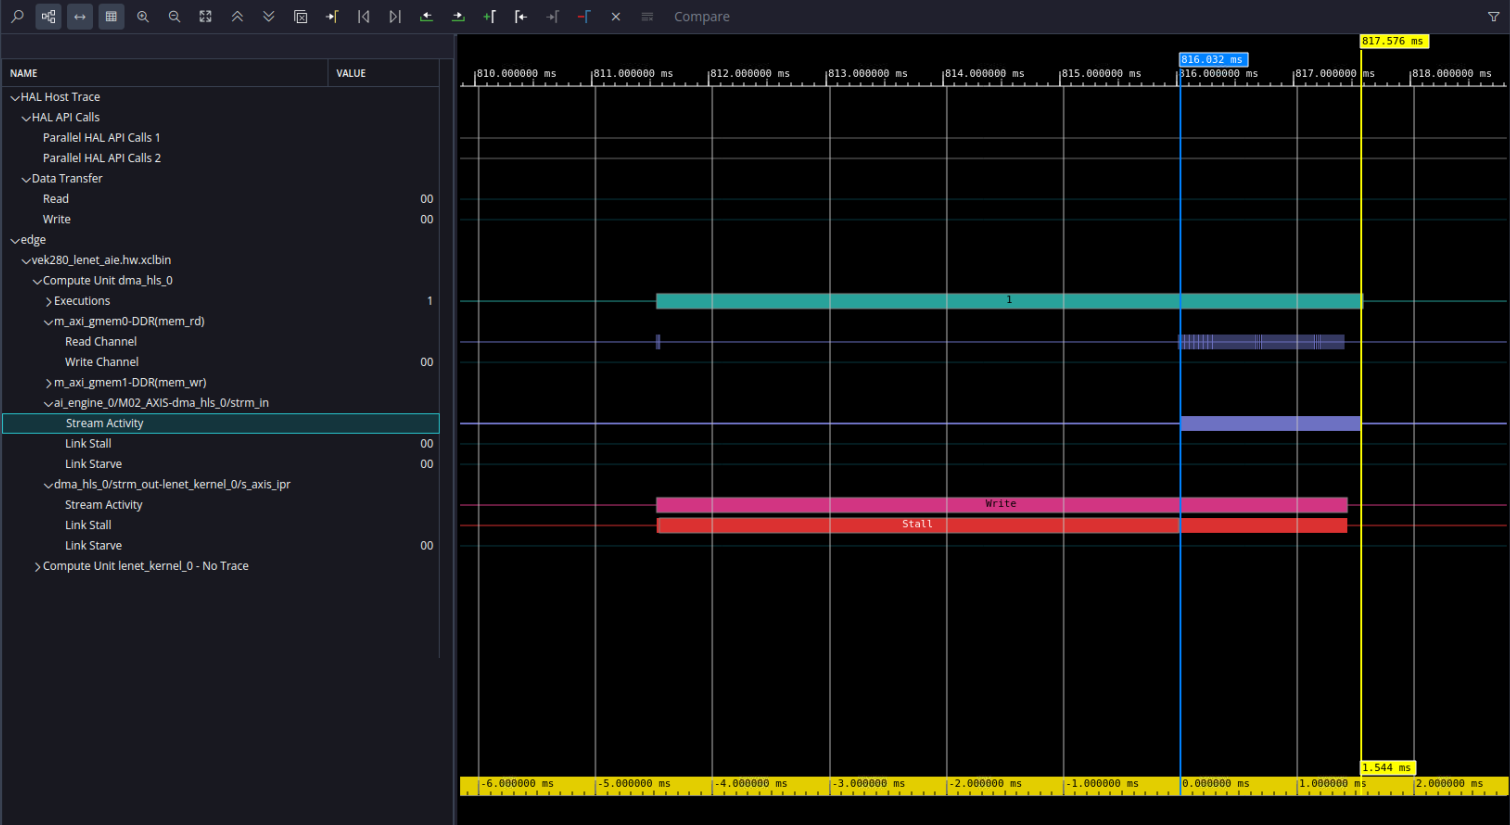
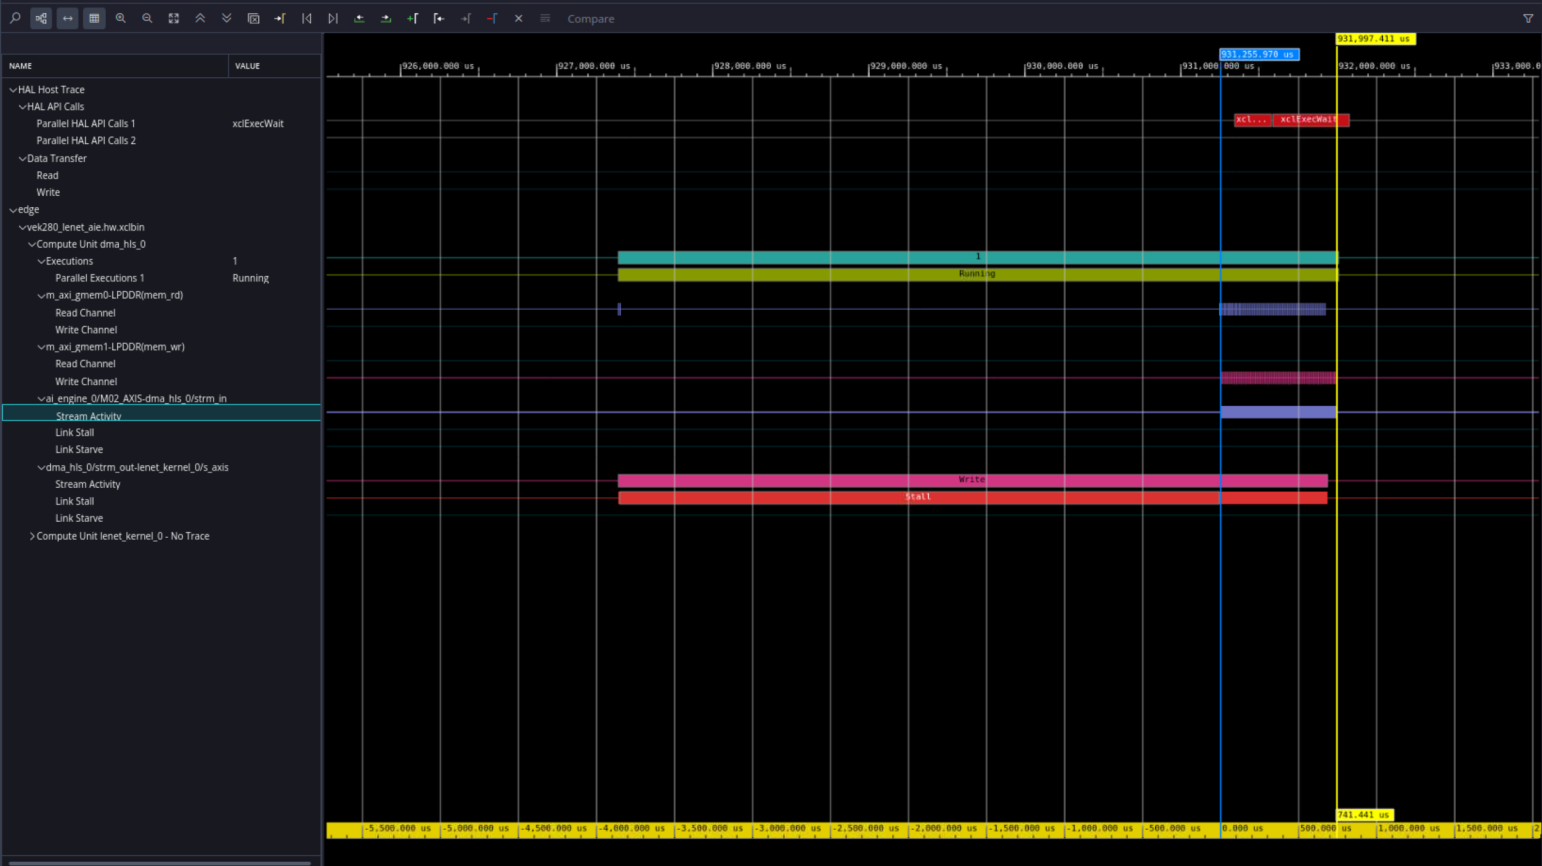
AIE-ML/D/03-AIE-ML-lenet_tutorial: Update Performance and Throughput number

Changed region(s): [[0.0, 0.0, 1.0, 1.0], [0.4358, 0.0, 0.4669, 0.0303]]

diff --git a/AI_Engine_Development/AIE-ML/Design_Tutorials/03-AIE-ML-lenet_tutorial/README.md b/AI_Engine_Development/AIE-ML/Design_Tutorials/03-AIE-ML-lenet_tutorial/README.md
@@ -1044,16 +1044,10 @@ The following is the snapshot of the time trace for the LeNet design run in hw.
 Throughput calculation is as follows:
 ```
 Difference in timeline (processing time) = (End Timestamp of strm_in - Start Timestamp of strm_in)
-					 = 1544.568 us
+					 = 741.441 us
 Throughput = (no of images / processing time)
-
-Throughput (with 150.00 MHz) = 100 / 1544.568 us
-		             = 64743.022  images/s
-
-The processing time reported by trace is with the data mover kernel running at 150.00MHz. Since the data mover kernel is running at 312.5MHz, we need to scale the execution time. Hence,
-Throughput (scaled to 312.5 MHz),
-	  = 64743.022 images/s x (312.5 / 150.00 ) 
-	  = 134881.2958 images/s
+           = 100 / 741.441 us 
+	  = 134872.4982 images/s
 ```
 The following is the snapshot of the time trace for the LeNet design run in Emulator.
 
@@ -1062,10 +1056,10 @@ The following is the snapshot of the time trace for the LeNet design run in Emul
 Throughput calculation is as follows:
 ```
 Difference in timeline (processing time) = (End Timestamp of strm_in - Start Timestamp of strm_in)
-					 = 741.542 us
+					 = 741.462 us
 Throughput = (no of images / Processing time)
-           = 100 / 741.542  us
-           = 134854.1283 images/s
+           = 100 / 741.462  us
+           = 134868.678 images/s
 
 ```
 
@@ -1097,7 +1091,7 @@ A summary of resource utilization and power is given in the following table.
 				
 | Number of Compute Cores|Vector Load|Number of Active Memory Banks|Mem R/W Rate|Memory Tiles|Memory Tile Memory Banks|Memory Tile Memory R/W Rate|AIE-ML Mem Tiles|Interconnect Load|Dynamic Power<br/>(in W)| 
 |:----------------------:|:---------:|:---------------------------:|:----------:|:----------:|:----------------------:|:-------------------------:|:--------------:|:---------------:|:-----------------------|
-|       5                |  32.08%   |          60                 |    16.48%  |     2      |        6               |          20.00%           |      2         |     9.53%       |         1.451          |
+|       5                |  31.75%   |          60                 |    16.07%  |     4      |        12              |          20.00%           |      4         |     11.04%      |         1.117          |
 
 ## Note
 
